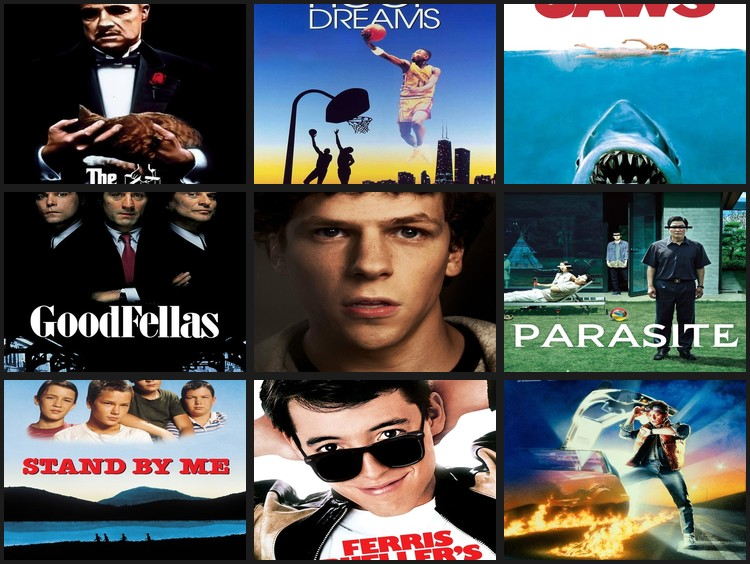
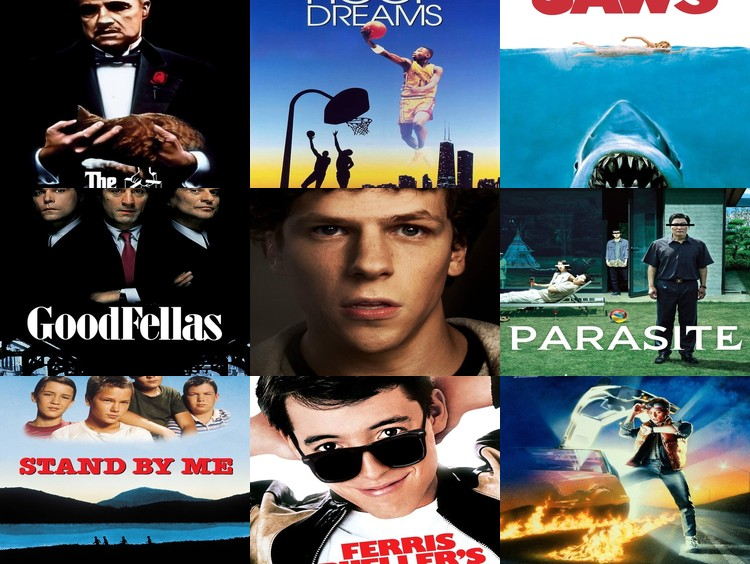
Remove all borders/padding from quilt and make all blocks 4:3 aspect ratio

Changed region(s): [[0.0, 0.0, 1.0, 1.0], [0.2147, 0.4823, 0.276, 0.5124]]

diff --git a/frontend/public/index-root.html b/frontend/public/index-root.html
@@ -140,9 +140,9 @@
             gap: 10px;
         }
         
-        /* Block/Card */
+        /* Block/Card - All blocks use 4:3 aspect ratio (landscape) */
         .block {
-            aspect-ratio: 1;
+            aspect-ratio: 4 / 3;
             background: #f5f5f5;
             display: flex;
             align-items: center;
@@ -155,29 +155,13 @@
             overflow: hidden;
         }
         
-        /* Films block: 4:3 landscape aspect ratio (wider than tall) */
+        /* Films block: seamless poster quilt with no borders */
         .block.films-block {
-            aspect-ratio: 4 / 3;
             background-image: url('/films-quilt.jpg');
             background-size: cover;
             background-position: center;
             background-repeat: no-repeat;
             background-color: #1c1c1c; /* Fallback color matching quilt background */
-        }
-        
-        /* Ensure image loads properly */
-        .block.films-block::before {
-            content: '';
-            display: block;
-            position: absolute;
-            top: 0;
-            left: 0;
-            right: 0;
-            bottom: 0;
-            background-image: url('/films-quilt.jpg');
-            background-size: cover;
-            background-position: center;
-            z-index: -1;
         }
         
         .block.films-block .block-content {

diff --git a/backend/create_films_quilt.py b/backend/create_films_quilt.py
@@ -17,7 +17,7 @@ GRID_COLUMNS = 3  # 3 columns × 3 rows for 9 films (more space per poster)
 GRID_ROWS = 3
 CELL_WIDTH = 250  # Width of each grid cell (larger for better visibility)
 CELL_HEIGHT = 188  # Height of each grid cell (4:3 aspect ratio - landscape)
-PADDING = 4  # Minimal padding
+PADDING = 0  # No padding - seamless posters with no borders
 
 def get_top_films(limit=9):
     """Get top films with The Godfather and Hoop Dreams first, then A-grade ranking"""
@@ -84,17 +84,17 @@ def create_quilt(films, output_file=OUTPUT_FILE):
     downloaded = 0
     failed = 0
     
-    # Image size with small padding to show more of edge posters
-    image_width = CELL_WIDTH - (PADDING * 2)
-    image_height = CELL_HEIGHT - (PADDING * 2)
+    # Image size fills cells completely (no padding - seamless)
+    image_width = CELL_WIDTH
+    image_height = CELL_HEIGHT
     
     for idx, film in enumerate(films):
         row = idx // GRID_COLUMNS
         col = idx % GRID_COLUMNS
         
-        # Calculate position with padding
-        x = col * CELL_WIDTH + PADDING
-        y = row * CELL_HEIGHT + PADDING
+        # Calculate position (no padding - seamless)
+        x = col * CELL_WIDTH
+        y = row * CELL_HEIGHT
         
         print(f"[{idx+1}/{len(films)}] Processing: {film['title']}")
         
